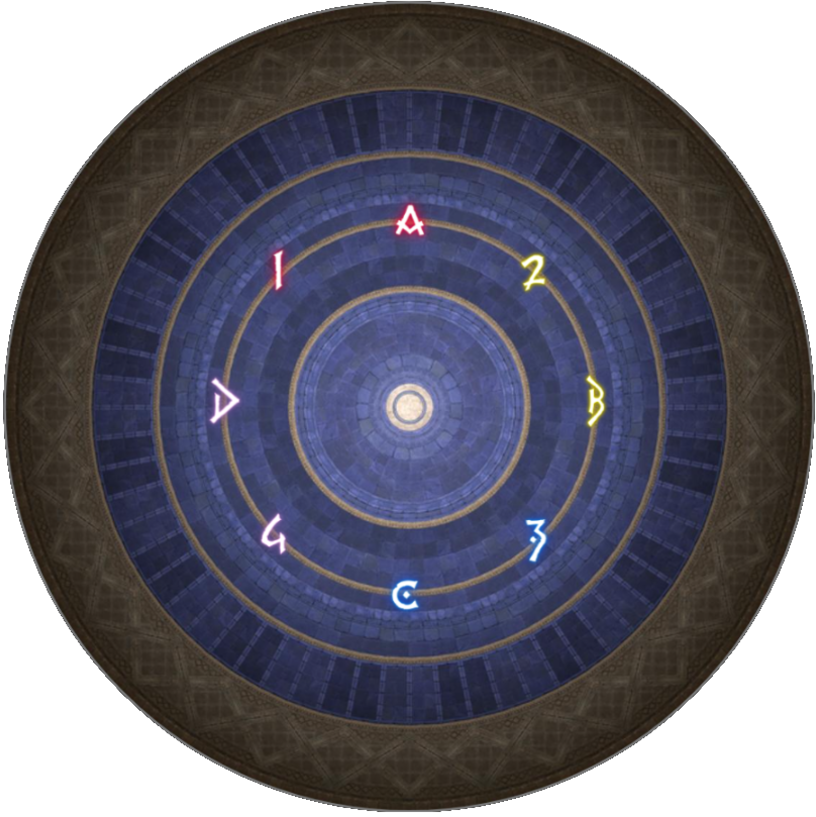
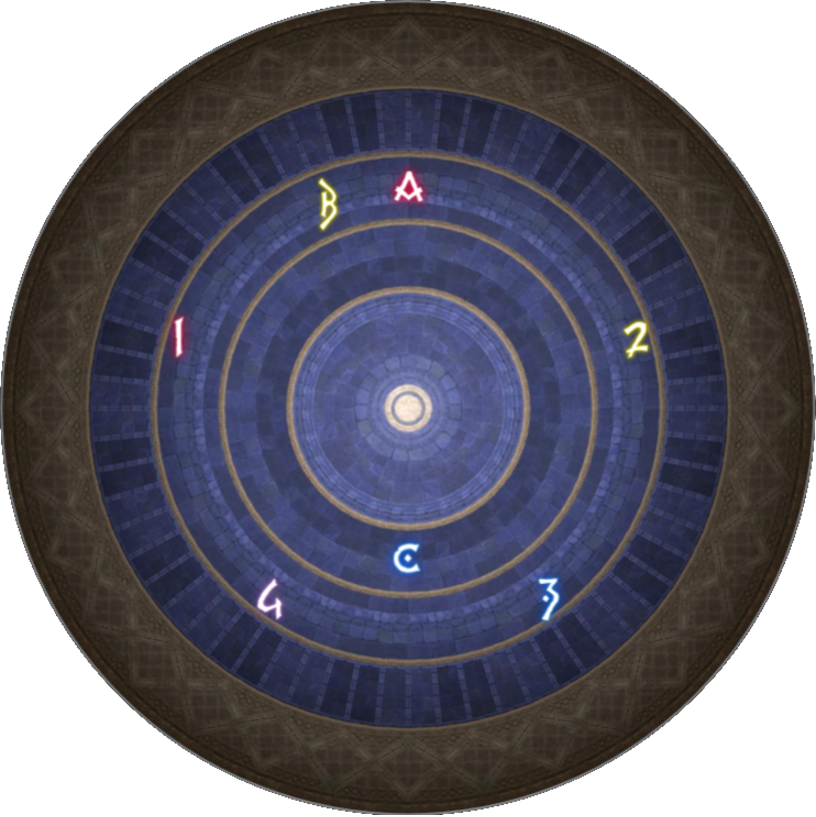
update ftmex boss 1 and 2

diff --git a/ftm/two-headed-aevis.html b/ftm/two-headed-aevis.html
@@ -61,6 +61,9 @@
           <p>
             At the start, <strong>Buffet</strong> tethers every player to one boss head (Blue Head or Green Head). Each player can only deal damage to their assigned head for the remainder of the encounter.
           </p>
+          <p>
+            Instead of dividing the parties per head, everyone will go to the side of the <strong>Blue Head</strong>, while a designated tank takes the <strong>Green Head</strong> solo.
+          </p>
           <div class="elemental-weakness">
             <strong>Elemental Weakness:</strong> <span class="element-fire">Fire</span> (Blue Head), <span class="element-wind">Wind</span> (Green Head)
           </div>
@@ -112,10 +115,10 @@
         <h2 class="card-heading gold">Buffet</h2>
         <div class="content-body">
           <p>Both heads tether to all players on their respective half of the arena, inflicting a debuff that restricts players to only attacking their tethered head.</p>
-          <p style="margin-top:.9rem;">Preposition the raid prior to the pull as follows:</p>
+          <p style="margin-top:.9rem;">Preposition prior to the pull as follows:</p>
           <ul class="mech-steps">
-            <li><strong>Parties A, B, and C:</strong> Start on the left side of the arena to tether to and attack the <strong>Blue Head</strong>.</li>
-            <li><strong>Parties 1, 2, and 3:</strong> Start on the right side of the arena to tether to and attack the <strong>Green Head</strong>.</li>
+            <li><strong>Everyone (all parties except the solo tank):</strong> Go to the left side of the arena to tether to and attack the <strong>Blue Head</strong>.</li>
+            <li><strong>Designated Tank:</strong> Goes to the right side of the arena to tether to and take the <strong>Green Head</strong> solo.</li>
           </ul>
         </div>
       </div>

diff --git a/ftm/sword-dancer.html b/ftm/sword-dancer.html
@@ -132,7 +132,7 @@
 
           <div class="alert-box tip" style="margin-top:1rem;">
             <span class="alert-icon">✦</span>
-            <span>On the first Throwing Swords, preposition on the 2nd ring roughly between the A and 1 waymarks. This spot will be safe for the first half of the mechanic. Additionally, the final two Martial Mystique cleaves can be very easily dodged from here as well.</span>
+            <span>On the first Throwing Swords, preposition at the <strong>B waymark</strong> (on the 2nd ring between A and 1). This spot will be safe for the first half of the mechanic. Additionally, the final two Martial Mystique cleaves can be very easily dodged from here as well.</span>
           </div>
         </div>
       </div>
@@ -272,7 +272,12 @@
       <div class="content-card" id="waymarks">
         <h2 class="card-heading teal">Waymarks</h2>
         <div class="content-body">
-          <p>Below is the waymark setup used for this encounter.</p>
+          <p>Below is the waymark setup used for this encounter:</p>
+          <ul class="mech-steps" style="margin-top:.9rem;">
+            <li><strong>Waymark B:</strong> Serves as the initial safe spot for the first <strong>Throwing Swords</strong> mechanic.</li>
+            <li><strong>Waymark C:</strong> Serves as the initial safe spot for the second <strong>Throwing Swords</strong> mechanic.</li>
+            <li><strong>Waymark A &amp; Number Waymarks (1–4):</strong> Positioned along the outer ring to guide positioning and knockbacks during <strong>Leaping Lift</strong>.</li>
+          </ul>
           <div class="img-row single" style="margin-top:1rem;">
             <img src="assets/boss2/waymarks.png" alt="Sword Dancer Waymarks Setup" class="section-img" />
           </div>
